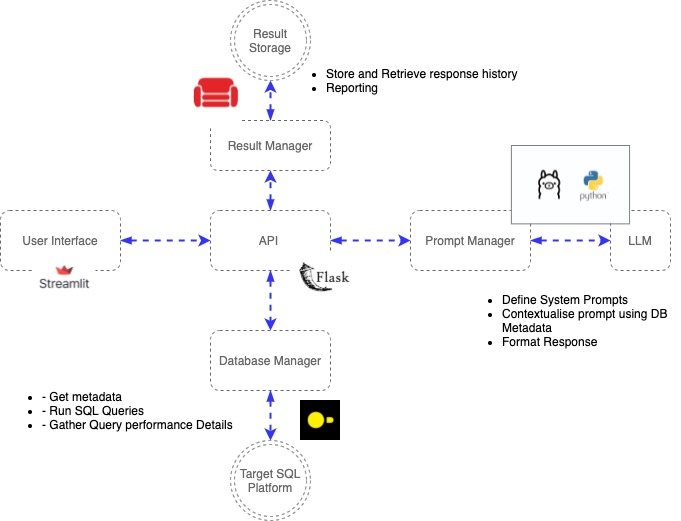
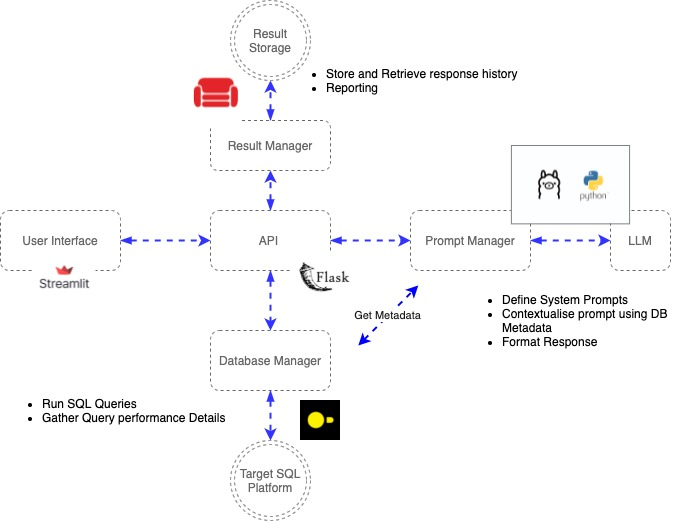
added docs for database manager and result manager

Changed region(s): [[0.0617, 0.737, 0.3392, 0.8292], [0.5242, 0.5528, 0.6167, 0.6142], [0.5242, 0.6449, 0.5551, 0.6756]]

diff --git a/src/prompt_manager.py b/src/prompt_manager.py
@@ -1,0 +1,119 @@
+import ollama
+from duckdb_stats import get_all_metadata, get_explain_result
+import os  
+
+def get_model_list():
+
+  
+    '''
+    **Description**
+
+    Returns a list of available models in local ``ollama`` installation. 
+
+    :return: List of model names 
+
+    .. note::
+        
+        The models are expected to be installed locally and accessible via the `ollama` python library. 
+        The function returns a list of model names that can be used for generating SQL queries.
+
+    You can check if ``ollama`` is installed by running the following command in your terminal: 
+    
+    .. code-block:: bash
+        
+        ollama list
+        
+        NAME              	ID          	SIZE  	MODIFIED    
+        
+        starcoder2:7b     	1550ab21b10d	4.0 GB	5 weeks ago	
+        
+        codellama:7b      	8fdf8f752f6e	3.8 GB	5 weeks ago	
+        
+        sqlcoder:7b       	77ac14348387	4.1 GB	5 weeks ago	
+        
+        duckdb-nsql:latest	3ed734989690	3.8 GB	5 weeks ago
+
+        
+    '''
+
+    models = [m.model for m in ollama.list().models]
+    return models
+
+def get_system_prompt():
+
+    '''
+    **Description**
+
+    Returns a system prompt template for SQL query generation.
+    The system prompt provides context to the model about its role and the task it needs to perform.
+    The prompt includes a placeholder for metadata, which will be replaced with the actual database schema information.
+    The metadata is expected to be a list of tuples, each containing information about a table and its columns.
+    The system prompt also includes guidelines for the model to follow when generating the SQL query.
+
+    ''' 
+
+
+    system_prompt = '''
+    You are a SQL developer working on a project that requires you to write a SQL query.
+    You have been provided with a database schema and a prompt that you need to convert into a SQL query.
+    Following list represents database schema that the SQL query will run on. 
+    The list is a tuple of string representing information of
+      table_catalog,  table_schema, table_name, column_name,  ordinal_position,  
+      column_default, is_nullable,data_type respectevely. 
+      <: metadata :>
+    '''
+    return system_prompt
+
+def get_guideline_prompts():
+
+    '''
+    **Description**
+
+    Returns a set of guidelines for the model to follow when generating SQL queries.
+    The guidelines specify that the result should be a valid SQL query that can be executed on the provided schema.
+    The model is instructed to return only the SQL query as a string.
+    The guidelines are designed to ensure that the generated SQL query is syntactically correct and adheres to SQL standards.
+    The guidelines are appended to the system prompt to provide additional context to the model.
+    '''
+
+    guideline_prompts = ''' Result should be a SQL query that can be run on the provided schema.
+        result must be a string that is a valid SQL query.
+        Please return only the SQL query.
+    '''
+    return guideline_prompts
+
+def generate_sql(prompt: str, model: str):
+
+    '''
+    **Description**
+
+    Generates a SQL query from a natural language prompt using the specified model.
+    The function first retrieves the metadata from the database using the `get_all_metadata` function.
+    The metadata is then used to replace the placeholder in the system prompt template.
+    The model is then called to generate the SQL query based on the provided prompt and system prompt.
+    The generated SQL query is returned along with the metadata used for generation.
+    
+    :param str prompt: The natural language prompt.
+    
+    :param str model: The model to use for query generation (default: duckdb-nsql:latest).
+    
+    :return: A tuple containing the generated SQL query and the metadata used for generation.
+    
+    :raises Exception: If the model is not found or if there is an error during SQL generation.
+    '''
+
+
+    metadata = list(get_all_metadata())
+    system_prompt_template = get_system_prompt()
+    system_prompt = system_prompt_template.replace('<: metadata :>', str(metadata))
+    guideline_prompts = get_guideline_prompts() 
+    system_prompt = system_prompt + guideline_prompts
+    
+    r = ollama.generate(
+    model = model,
+    prompt=prompt,
+    system=system_prompt    
+    )
+    sql_stmt = r['response'] #"SELECT * FROM date_dim"
+    
+    return sql_stmt, metadata

diff --git a/src/database_manager.py b/src/database_manager.py
@@ -1,35 +1,20 @@
-import ollama
-from duckdb_stats import get_all_metadata, get_explain_result
-import os 
-
-def generate_sql(prompt: str, model: str):
-    metadata = list(get_all_metadata())
-    
-    r = ollama.generate(
-    model = model,
-    prompt=prompt,
-    system='''
-    You are a SQL developer working on a project that requires you to write a SQL query.
-    You have been provided with a database schema and a prompt that you need to convert into a SQL query.
-    Following list represents database schema that the SQL query will run on. 
-    The list is a tuple of string representing information of
-      table_catalog,  table_schema, table_name, column_name,  ordinal_position,  
-      column_default, is_nullable,data_type respectevely.
-    ''' + str(metadata) + 
-    ''' Result should be a SQL query that can be run on the provided schema.
-        result must be a string that is a valid SQL query.
-        Please return only the SQL query.
-    '''
-    )
-    sql_stmt = r['response'] #"SELECT * FROM date_dim"
-    
-    return sql_stmt, metadata
-
+from duckdb_stats import get_explain_result
 
 def get_query_statistics(qry: str):
+    
+    '''
+    **Description**
+    
+    Get the query statistics for a given SQL query.
+    The function uses the `get_explain_result` function from the `duckdb_stats` module to analyze the query.
+    
+    :param str qry: The SQL query to analyze.
+
+    :return: A dictionary containing the query statistics.
+
+    :rtype: dict
+    '''
+    
     explain_res = get_explain_result(qry)
     return explain_res
 
-def get_model_list():
-  models = [m.model for m in ollama.list().models]
-  return models

diff --git a/src/server.py b/src/server.py
@@ -1,6 +1,7 @@
 from flask import Flask, request, jsonify
-from database_manager import generate_sql, get_query_statistics, get_model_list 
+from database_manager import get_query_statistics 
 from result_manager import store_data, get_all_data
+from prompt_manager import generate_sql, get_model_list
 
 app = Flask(__name__)
 
@@ -55,9 +56,6 @@ On error:
     
     if prompt:
         result = get_prompt_response(prompt = prompt, model = model)
-        #prompt_history.append(result)
-
-        #return jsonify({"prompt_history": prompt_history}), 200
         return jsonify({"prompt_result": result}), 200
     return jsonify({"error": "No prompt provided"}), 400
 

diff --git a/src/result_manager.py b/src/result_manager.py
@@ -3,7 +3,7 @@ import couchdb
 
 def createOrGetDatabase():
     """
-    create a connection to the couchdb server running on ```localhost:5984```
+    create a connection to the couchdb server running on ``localhost:5984``
     create a database called ollama-duckdb-prompt-tracker. If it already exists, get the existing database
     return the database object
     create a connection to the couchdb server running on localhost:5984

diff --git a/docs/source/prompt_manager.rst b/docs/source/prompt_manager.rst
@@ -1,9 +1,52 @@
 Prompt Manager 
 ====================
 
+Usage  
+------------------------
+
+.. automodule:: prompt_manager
+    :members:
+    :member-order: bysource
+    :undoc-members:
+    :show-inheritance:
+    :noindex:
+    :special-members: __init__, __call__
+    :exclude-members: __module__, __dict__, __weakref__, __doc__
+
 Installation  
 ------------------------
 
+Ollama Installation: https://ollama.com/download 
 
-Usage  
-------------------------
+Ollama CLI commands: https://github.com/ollama/ollama?tab=readme-ov-file#quickstart ::
+
+    ollama 
+    Usage
+        ollama [flags]
+        ollama [command]
+
+    Available Commands
+    serve       Start ollama
+    create      Create a model from a Modelfile
+    show        Show information for a model
+    run         Run a model
+    pull        Pull a model from a registry
+    push        Push a model to a registry
+    list        List models
+    ps          List running models
+    cp          Copy a model
+    rm          Remove a model
+    help        Help about any command
+
+    Flags:
+    -h, --help      help for ollama
+    -v, --version   Show version information
+
+    Use "ollama [command] --help" for more information about a command.
+
+
+Ollama Python Package
+
+.. code-block:: bash
+
+    pip install ollama 

diff --git a/docs/source/database_manager.rst b/docs/source/database_manager.rst
@@ -1,9 +1,25 @@
 Database Manager 
 ====================
 
+Usage  
+------------------------
+
+.. automodule:: database_manager
+    :members:
+    :member-order: bysource
+    :undoc-members:
+    :show-inheritance:
+    :noindex:
+    :special-members: __init__, __call__
+    :exclude-members: __module__, __dict__, __weakref__, __doc__
+
+
+
 Installation  
 ------------------------
 
+DuckDB Installation: https://duckdb.org/docs/installation/?version=stable&environment=cli&platform=macos&download_method=direct
 
-Usage  
-------------------------
+.. code-block:: bash
+
+    pip install duckdb 

diff --git a/docs/source/result_manager.rst b/docs/source/result_manager.rst
@@ -19,3 +19,8 @@ Installation
 ------------------------
 
 CouchDB Installation: https://docs.couchdb.org/en/stable/install/index.html
+
+.. code-block:: bash
+
+    pip install couchdb
+
